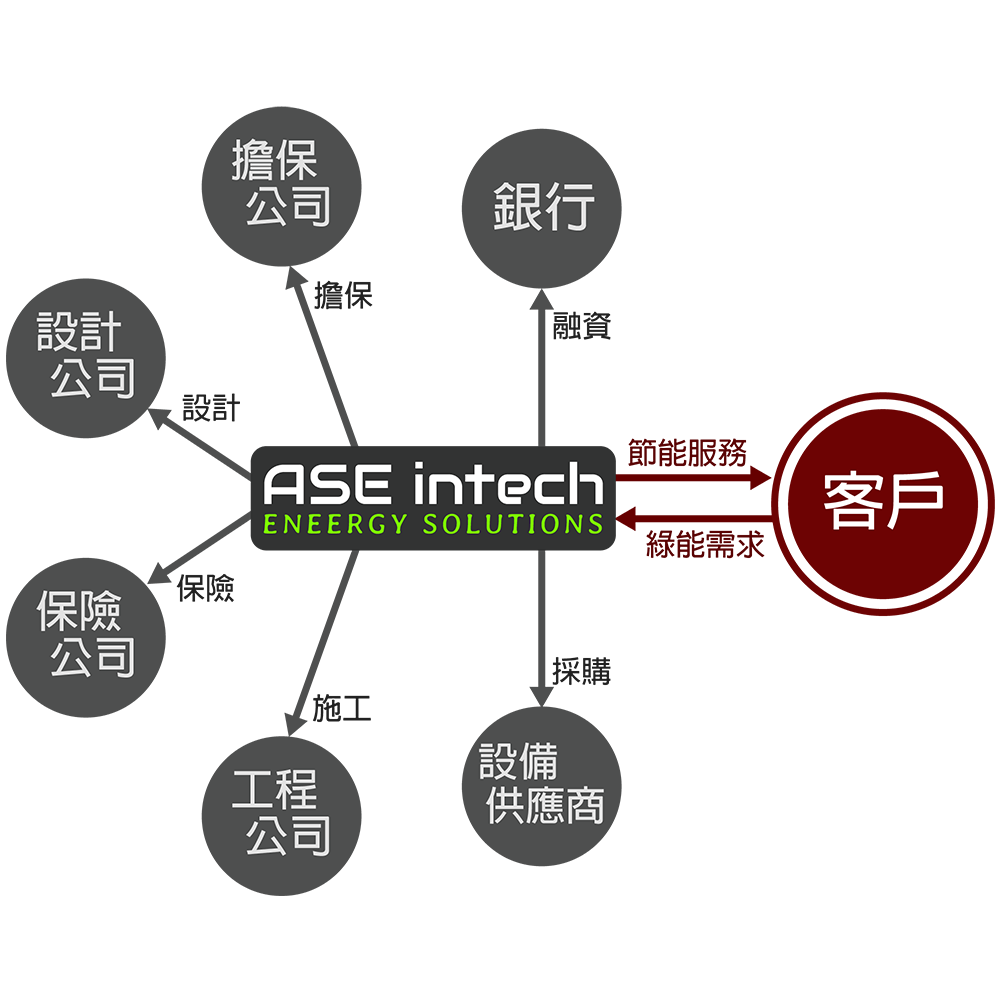
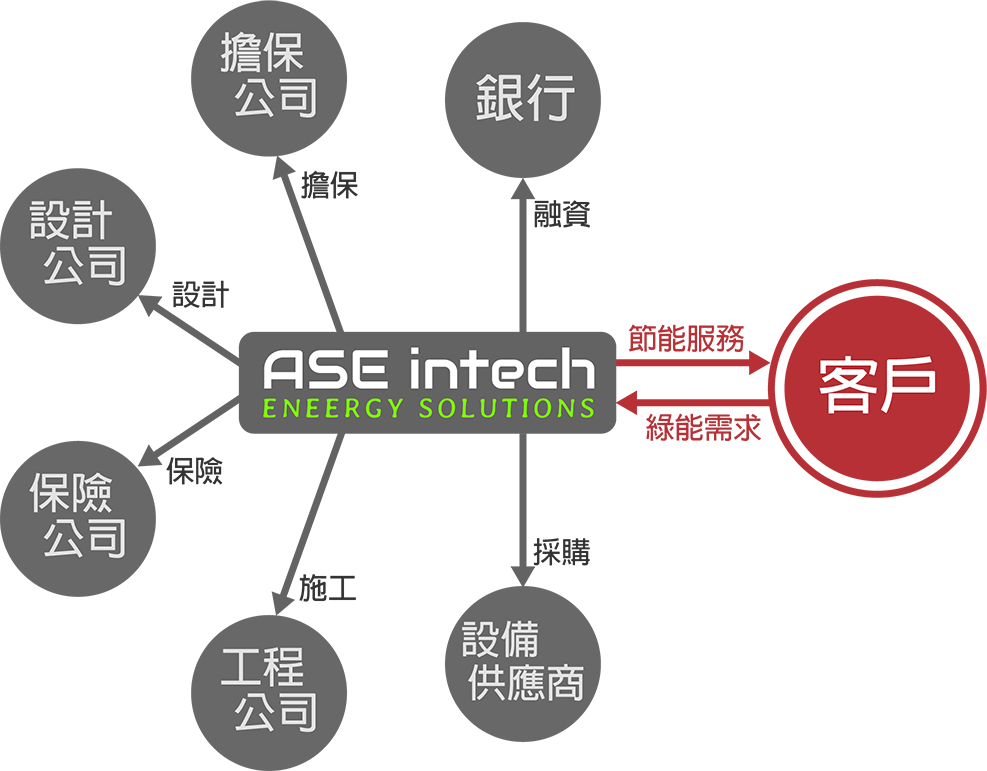
udpate esco img

diff --git a/devServer/public/ESCO.html b/devServer/public/ESCO.html
@@ -1,6 +1,6 @@
 <!DOCTYPE html><html lang="en"><head><meta charset="utf-8"><meta http-equiv="X-UA-Compatible" content="IE=edge"><meta name="viewport" content="width=device-width, initial-scale=1"><meta name="description" content=""><meta name="author" content=""><link rel="icon" type="image/png" href="favicon.png"><link rel="shortcut icon" type="image/png" href="http://www.asetaiwan.com/favicon.png"><title>ASE intech</title><link href="https://maxcdn.bootstrapcdn.com/bootstrap/3.3.1/css/bootstrap.min.css" rel="stylesheet"><link href="https://fonts.googleapis.com/css?family=Audiowide" rel="stylesheet" type="text/css"><link href="asset/stylesheets/default.css" rel="stylesheet"><link href="asset/stylesheets/main.css" rel="stylesheet"><style>.carousel-caption h1{
 text-shadow: 4px 4px 3px #333
-}</style></head><body><div class="navbar-wrapper"><div class="container"><nav role="navigation" class="navbar navbar-inverse navbar-static-top"><div class="container"><div class="navbar-header"><a href="./" class="logo">ASE Intech</a></div><div id="navbar" class="navbar-collapse collapse"><ul class="nav navbar-nav"><li class="dropdown"><a href="#" data-toggle="dropdown" role="button" aria-expanded="false" class="dropdown-toggle">節能服務<span class="caret"></span></a><ul role="menu" class="dropdown-menu"><li><a href="./LED.html">節能照明系統</a></li></ul></li><li class="dropdown"><a href="#" data-toggle="dropdown" role="button" aria-expanded="false" class="dropdown-toggle">綠色能源<span class="caret"></span></a><ul role="menu" class="dropdown-menu"><li><a href="./PV.html">太陽光電發電系統</a></li><li class="divider"></li><li><a href="./cal.html">設置費用試算</a></li><li><a href="./Money.html">電能躉購費率</a></li><li><a href="http://www.mrpv.org.tw/uploads/20140212162503-1142442397.pdf" target="_blank">參考日照資料</a></li><li><a href="./PVset.html">太陽能申設流程圖</a></li></ul></li><li class="dropdown"><a href="#" data-toggle="dropdown" role="button" aria-expanded="false" class="dropdown-toggle">智能監控<span class="caret"></span></a><ul role="menu" class="dropdown-menu"><li><a href="./Smart-home.html">iFamily 智慧綠能家庭管理</a></li><li><a href="./Smart-enterprise.html">Ectuary 企業能源精算師</a></li><li><a href="./Smart-light.html">In-Light 智慧照明管理</a></li><li><a href="./Smart-energy.html">LIZA 再生能源監測管理</a></li></ul></li><li class="dropdown"><a href="#" data-toggle="dropdown" role="button" aria-expanded="false" class="dropdown-toggle">修繕改裝<span class="caret"></span></a><ul role="menu" class="dropdown-menu"><li><a href="./Fix-all.html">修繕改裝</a></li></ul></li></ul><ul class="nav navbar-nav navbar-right"><li><a href="#contact" data-toggle="modal" data-target="#contect">聯絡我們</a></li><li class="dropdown"><a href="#" data-toggle="dropdown" role="button" aria-expanded="false" class="dropdown-toggle">資訊分享<span class="caret"></span></a><ul role="menu" class="dropdown-menu"><li><a href="./ESCO.html">ESCO 合作模式</a></li><li><a href="./Supply.html">政府獎勵/補助資訊</a></li></ul></li></ul></div></div></nav></div></div><div id="contect" tabindex="-1" role="dialog" aria-labelledby="myLargeModalLabel" aria-hidden="true" class="active modal fade bs-example-modal-sm"><div class="modal-dialog modal-md"><div class="modal-content"><div class="modal-header"><button type="button" data-dismiss="modal" class="close"><span aria-hidden="true">×</span><span class="sr-only">Close</span></button><h4 class="modal-title ase">ASE Intech</h4></div><div class="modal-body"><div class="container"></div><dl class="dl-horizontal"><dt>公司 &nbsp;<span aria-hidden="true" class="glyphicon glyphicon-tower"></span></dt><dd>漢鵬智能科技有限公司 ASE intelligent Technology Co., Ltd.</dd><dt>地址 &nbsp;<span aria-hidden="true" class="glyphicon glyphicon-road"></span></dt><dd>220 新北市板橋區四川路二段 58 號 60420H 室</dd><dt></dt><dd>709 台南市安南區公學路二段 63 巷 2 弄 21 號</dd><dt>電話 &nbsp;<span aria-hidden="true" class="glyphicon glyphicon-phone-alt"></span></dt><dd>02 7738 0560</dd><dt>傳真 &nbsp;<span aria-hidden="true" class="glyphicon glyphicon-phone-alt"></span></dt><dd>02 7738 0960</dd><dt>統編 &nbsp;<span aria-hidden="true" class="glyphicon glyphicon-file"></span></dt><dd>54569727</dd><dt>Email &nbsp;<span aria-hidden="true" class="glyphicon glyphicon-envelope"></span></dt><dd><a href="mailto:service@asetaiwan.com"> service@asetaiwan.com</a></dd></dl></div></div></div></div><br><br><br><div class="container"><div class="row"><div class="col-md-12"><h2 class="featurette-heading">ESCO 合作模式</h2><h3 class="text-muted">ESCO 合約保障業主的工程品質和日後的維護服務</h3><p class="lead">透過銀行、租賃公司的第三方保證，在整個 ESCO 能源專案合約中，能保障雙方的各項權益：<ul class="lead"><li>分期支付工程費用： ESCO 模式中，不必一次支付大筆的工程款項， 以節能照明為例，您可以利用這個機制在節能照明開始運作且獲得收益後，逐步支付先前的工程款項。</li><li>ESCO效益：可採用不同的合約形式，但皆可確保您能獲得預期的收益。</li><li>節能效益驗證：正確、嚴謹地驗證確保您獲得預期的收益，並由銀行、租賃公司的第三方作擔保。</li><li>系統化工程： ASE 規劃完整的節能服務、綠色能源、智能監控等系統，同時做全面性系統化的規劃，無論是建置新的能源系統或舊系統之修繕改裝，ASE有完整的規劃建置方案。</li></ul></p></div></div><div class="row"><div class="col-md-12"><h2 class="featurette-heading">簡介 ESCO ( Energy Services Company )</h2><h3 class="text-muted">經濟部商業司定義--能源技術服務業 ( 行業代碼IG03010 )</h3><p class="lead">從事新淨潔能源〔包含太陽能、生質與廢棄功能、地熱、海洋 能、風力、水力〕、節約能源、 提升能源使用效率或抑制移轉尖峰用電負載之設備、
+}</style></head><body><div class="navbar-wrapper"><div class="container"><nav role="navigation" class="navbar navbar-inverse navbar-static-top"><div class="container"><div class="navbar-header"><a href="./" class="logo">ASE Intech</a></div><div id="navbar" class="navbar-collapse collapse"><ul class="nav navbar-nav"><li class="dropdown"><a href="#" data-toggle="dropdown" role="button" aria-expanded="false" class="dropdown-toggle">節能服務<span class="caret"></span></a><ul role="menu" class="dropdown-menu"><li><a href="./LED.html">節能照明系統</a></li></ul></li><li class="dropdown"><a href="#" data-toggle="dropdown" role="button" aria-expanded="false" class="dropdown-toggle">綠色能源<span class="caret"></span></a><ul role="menu" class="dropdown-menu"><li><a href="./PV.html">太陽光電發電系統</a></li><li class="divider"></li><li><a href="./cal.html">設置費用試算</a></li><li><a href="./Money.html">電能躉購費率</a></li><li><a href="http://www.mrpv.org.tw/uploads/20140212162503-1142442397.pdf" target="_blank">參考日照資料</a></li><li><a href="./PVset.html">太陽能申設流程圖</a></li></ul></li><li class="dropdown"><a href="#" data-toggle="dropdown" role="button" aria-expanded="false" class="dropdown-toggle">智能監控<span class="caret"></span></a><ul role="menu" class="dropdown-menu"><li><a href="./Smart-home.html">iFamily 智慧綠能家庭管理</a></li><li><a href="./Smart-enterprise.html">Ectuary 企業能源精算師</a></li><li><a href="./Smart-light.html">In-Light 智慧照明管理</a></li><li><a href="./Smart-energy.html">LIZA 再生能源監測管理</a></li></ul></li><li class="dropdown"><a href="#" data-toggle="dropdown" role="button" aria-expanded="false" class="dropdown-toggle">修繕改裝<span class="caret"></span></a><ul role="menu" class="dropdown-menu"><li><a href="./Fix-all.html">修繕改裝</a></li></ul></li></ul><ul class="nav navbar-nav navbar-right"><li><a href="#contact" data-toggle="modal" data-target="#contect">聯絡我們</a></li><li class="dropdown"><a href="#" data-toggle="dropdown" role="button" aria-expanded="false" class="dropdown-toggle">資訊分享<span class="caret"></span></a><ul role="menu" class="dropdown-menu"><li><a href="./ESCO.html">ESCO 合作模式</a></li><li><a href="./Supply.html">政府獎勵/補助資訊</a></li></ul></li></ul></div></div></nav></div></div><div id="contect" tabindex="-1" role="dialog" aria-labelledby="myLargeModalLabel" aria-hidden="true" class="active modal fade bs-example-modal-sm"><div class="modal-dialog modal-md"><div class="modal-content"><div class="modal-header"><button type="button" data-dismiss="modal" class="close"><span aria-hidden="true">×</span><span class="sr-only">Close</span></button><h4 class="modal-title ase">ASE Intech</h4></div><div class="modal-body"><div class="container"></div><dl class="dl-horizontal"><dt>公司 &nbsp;<span aria-hidden="true" class="glyphicon glyphicon-tower"></span></dt><dd>漢鵬智能科技有限公司 ASE intelligent Technology Co., Ltd.</dd><dt>地址 &nbsp;<span aria-hidden="true" class="glyphicon glyphicon-road"></span></dt><dd>220 新北市板橋區四川路二段 58 號 60420H 室</dd><dt></dt><dd>709 台南市安南區公學路二段 63 巷 2 弄 21 號</dd><dt>電話 &nbsp;<span aria-hidden="true" class="glyphicon glyphicon-phone-alt"></span></dt><dd>02 7738 0560</dd><dt>傳真 &nbsp;<span aria-hidden="true" class="glyphicon glyphicon-phone-alt"></span></dt><dd>02 7738 0960</dd><dt>統編 &nbsp;<span aria-hidden="true" class="glyphicon glyphicon-file"></span></dt><dd>54569727</dd><dt>Email &nbsp;<span aria-hidden="true" class="glyphicon glyphicon-envelope"></span></dt><dd><a href="mailto:service@asetaiwan.com"> service@asetaiwan.com</a></dd></dl></div></div></div></div><br><br><br><div class="container"><div class="row"><div class="col-md-12"><center><img src="asset/img/ESCO/ESCO_new.png" alt="ESCO" width="50%" style="margin-top:80px;" class="featurette-image img-responsive"><h2><b>ESCO 合作模式</b></h2></center></div><div class="col-md-12"><h2 class="featurette-heading">ESCO 合作模式</h2><h3 class="text-muted">ESCO 合約保障業主的工程品質和日後的維護服務</h3><p class="lead">透過銀行、租賃公司的第三方保證，在整個 ESCO 能源專案合約中，能保障雙方的各項權益：<ul class="lead"><li>分期支付工程費用： ESCO 模式中，不必一次支付大筆的工程款項， 以節能照明為例，您可以利用這個機制在節能照明開始運作且獲得收益後，逐步支付先前的工程款項。</li><li>ESCO效益：可採用不同的合約形式，但皆可確保您能獲得預期的收益。</li><li>節能效益驗證：正確、嚴謹地驗證確保您獲得預期的收益，並由銀行、租賃公司的第三方作擔保。</li><li>系統化工程： ASE 規劃完整的節能服務、綠色能源、智能監控等系統，同時做全面性系統化的規劃，無論是建置新的能源系統或舊系統之修繕改裝，ASE有完整的規劃建置方案。</li></ul></p></div></div><div class="row"><div class="col-md-12"><h2 class="featurette-heading">簡介 ESCO ( Energy Services Company )</h2><h3 class="text-muted">經濟部商業司定義--能源技術服務業 ( 行業代碼IG03010 )</h3><p class="lead">從事新淨潔能源〔包含太陽能、生質與廢棄功能、地熱、海洋 能、風力、水力〕、節約能源、 提升能源使用效率或抑制移轉尖峰用電負載之設備、
 系統及工程之規劃、可性行研究、設 計、安裝、施工、維護、檢測、代操作、相關軟硬體構建及其相關技術服務之行業。</p><blockquote><p class="text-primary">ESCO 合作模式即是保障能源工程中保障雙方利益與保證的最佳方式。</p></blockquote></div><div class="col-md-2"></div><div class="col-md-8"><br><br><img src="asset/img/ESCO/chart-1.png" alt="ESCO" class="featurette-image img-responsive"></div></div><div class="row"><div class="col-md-7"><h2 class="featurette-heading">ESCO 節能績效專案合作模式</h2><h3 class="text-muted">ESCO主要是針對各種企業提供耗能設備或系統盤查、問題診斷、 節能改善工程設計規劃、施工及量測與驗證等一條龍(One Stop Shopping)的服務。</h3><br><br><blockquote><p class="text-primary">確保您在使用 ASE 的節能系統後，能獲得預期的收益，並確保節能的效果與規劃時的數據相同。</p></blockquote></div><div class="col-md-5"><div style="height:40px; width:100px"></div><p class="lead"><div class="list-group"><div href="" class="list-group-item"><h4 class="list-group-item-heading">系統性檢查</h4><p class="list-group-item-text">現場盤查，診斷狀況</p></div><div href="" class="list-group-item"><h4 class="list-group-item-heading">規劃與提案</h4><p class="list-group-item-text">規劃整體節能方案</p></div><div href="" class="list-group-item"><h4 class="list-group-item-heading">簽訂契約</h4><p class="list-group-item-text">重複討論需求後，簽訂 ESCO 與第三方保證契約</p></div><div href="" class="list-group-item"><h4 class="list-group-item-heading">量測必要數據</h4><p class="list-group-item-text">基準線資料建立</p></div><div href="" class="list-group-item"><h4 class="list-group-item-heading">ASE 能源系統工程</h4><p class="list-group-item-text">節能服務、綠色能源、智能監控等系統工程施作</p></div><div href="" class="list-group-item"><h4 class="list-group-item-heading">效益驗證</h4><p class="list-group-item-text">透過 ESCO 合約驗證節能服務、綠色能源、智能監控等系統之效益</p></div><div href="" class="list-group-item"><h4 class="list-group-item-heading">定期追蹤</h4><p class="list-group-item-text">視合約狀況而定，定期追蹤與維護整體系統。</p></div></div></p></div><style>.rule{
 width: 420px;
 height: 30px;
